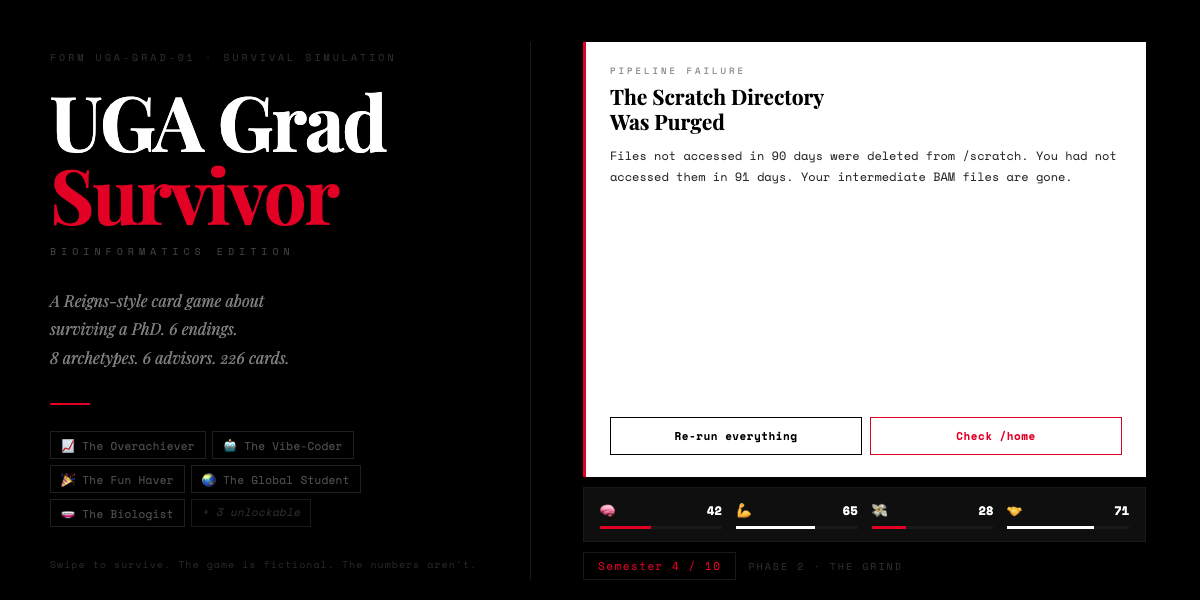
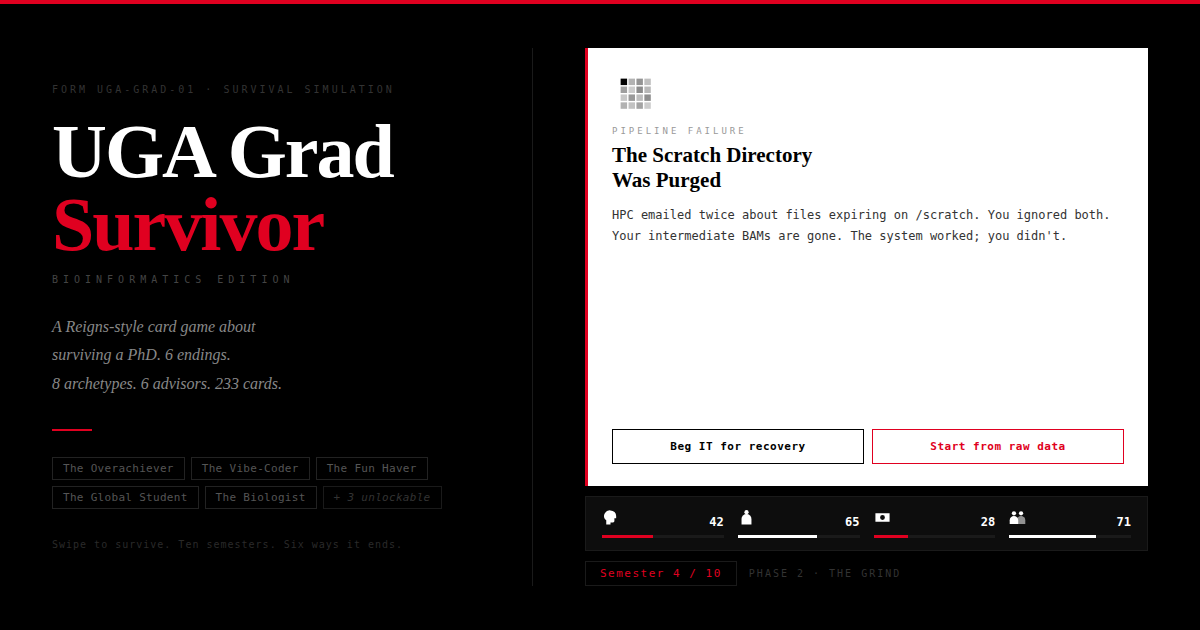
Reframe away from advocacy, and drop the stipend figure
The $34,738 stipend was the project's thesis — it led the title screen, both
share cards and the OG image. It is also the detail most certain to go stale,
which makes the framing age badly. Money stays as one of four survival stats;
it stops being the argument.

  title screen   "surviving a PhD on $34,738/year"
                 -> "surviving a bioinformatics PhD"
  og / twitter   "Can you survive a PhD on $34,738/year?"
                 -> "Ten semesters. Six ways it ends. A card game about the
                     parts of a bioinformatics PhD nobody puts in the brochure."
  stipend_letter "Your funding offer: $34,738 a year."
                 -> "Your funding offer arrives with a number on it."
                 The joke was never the figure, it was closing the cost-of-
                 living tab before you finish reading it.
  og image       "Swipe to survive. The game is fictional. The numbers aren't."
                 -> "Swipe to survive. Ten semesters. Six ways it ends."

Removed the .ending-advocacy / .ad-title / .ad-stat rules — dead CSS from an
advocacy panel no longer rendered by any JS.

OG image regenerated from corrected source: it still said 226 cards, still ran
its stat strip on emoji, and showed a sample card whose text and labels predate
the rewrite. Now 233, Isotype marks, and the card as it actually reads.

README had drifted from the code:
- 226 cards -> 233, in both places
- "defense rate ~54%, strategic play ~80%+" was wrong in both directions.
[…]

diff --git a/og-preview.html b/og-preview.html
@@ -266,21 +266,21 @@ body {
     <div class="tagline">
       A Reigns-style card game about<br>
       surviving a PhD. 6 endings.<br>
-      8 archetypes. 6 advisors. 226 cards.
+      8 archetypes. 6 advisors. 233 cards.
     </div>
 
     <div class="divider"></div>
 
     <div class="arch-grid">
-      <div class="arch-tag">📈 The Overachiever</div>
-      <div class="arch-tag">🤖 The Vibe-Coder</div>
-      <div class="arch-tag">🎉 The Fun Haver</div>
-      <div class="arch-tag">🌏 The Global Student</div>
-      <div class="arch-tag">🧫 The Biologist</div>
+      <div class="arch-tag">The Overachiever</div>
+      <div class="arch-tag">The Vibe-Coder</div>
+      <div class="arch-tag">The Fun Haver</div>
+      <div class="arch-tag">The Global Student</div>
+      <div class="arch-tag">The Biologist</div>
       <div class="arch-tag more">+ 3 unlockable</div>
     </div>
 
-    <div class="footer-line">Swipe to survive. The game is fictional. The numbers aren't.</div>
+    <div class="footer-line">Swipe to survive. Ten semesters. Six ways it ends.</div>
   </div>
 
   <div class="vdivider"></div>
@@ -288,40 +288,41 @@ body {
   <!-- RIGHT -->
   <div class="right">
     <div class="card">
+      <div class="card-art-slot"><svg viewBox="0 0 64 64" fill="currentColor" style="width:46px;height:46px;display:block;margin-bottom:10px"><rect x="12" y="12" width="9" height="9"/><rect x="23" y="12" width="9" height="9" opacity=".3"/><rect x="34" y="12" width="9" height="9" opacity=".42"/><rect x="45" y="12" width="9" height="9" opacity=".25"/><rect x="12" y="23" width="9" height="9" opacity=".38"/><rect x="23" y="23" width="9" height="9" opacity=".2"/><rect x="34" y="23" width="9" height="9" opacity=".45"/><rect x="45" y="23" width="9" height="9" opacity=".28"/><rect x="12" y="34" width="9" height="9" opacity=".22"/><rect x="23" y="34" width="9" height="9" opacity=".4"/><rect x="34" y="34" width="9" height="9" opacity=".26"/><rect x="45" y="34" width="9" height="9" opacity=".44"/><rect x="12" y="45" width="9" height="9" opacity=".3"/><rect x="23" y="45" width="9" height="9" opacity=".24"/><rect x="34" y="45" width="9" height="9" opacity=".36"/><rect x="45" y="45" width="9" height="9" opacity=".2"/></svg></div>
       <div class="card-tag">Pipeline Failure</div>
       <div class="card-title">The Scratch Directory<br>Was Purged</div>
-      <div class="card-body">Files not accessed in 90 days were deleted from /scratch. You had not accessed them in 91 days. Your intermediate BAM files are gone.</div>
+      <div class="card-body">HPC emailed twice about files expiring on /scratch. You ignored both. Your intermediate BAMs are gone. The system worked; you didn't.</div>
       <div class="card-btns">
-        <div class="cbtn cbtn-l">Re-run everything</div>
-        <div class="cbtn cbtn-r">Check /home</div>
+        <div class="cbtn cbtn-l">Beg IT for recovery</div>
+        <div class="cbtn cbtn-r">Start from raw data</div>
       </div>
     </div>
 
     <div class="stats-strip">
       <div class="stat-col">
         <div class="stat-header">
-          <span class="stat-emoji">🧠</span>
+          <span class="stat-emoji"><svg viewBox="0 0 24 24" fill="currentColor" style="width:17px;height:17px;display:block"><path d="M12 2a8 8 0 0 1 8 8v3h-2.5v4a2 2 0 0 1-2 2H12v3H6v-6l-2-2a8 8 0 0 1 8-12z"/></svg></span>
           <span class="stat-num">42</span>
         </div>
         <div class="sbar"><div class="sbar-fill" style="width:42%;background:#e00020;"></div></div>
       </div>
       <div class="stat-col">
         <div class="stat-header">
-          <span class="stat-emoji">💪</span>
+          <span class="stat-emoji"><svg viewBox="0 0 24 24" fill="currentColor" style="width:17px;height:17px;display:block"><circle cx="12" cy="4.5" r="3"/><path d="M5 22v-8a7 7 0 0 1 14 0v8z"/></svg></span>
           <span class="stat-num">65</span>
         </div>
         <div class="sbar"><div class="sbar-fill" style="width:65%;background:#fff;"></div></div>
       </div>
       <div class="stat-col">
         <div class="stat-header">
-          <span class="stat-emoji">💸</span>
+          <span class="stat-emoji"><svg viewBox="0 0 24 24" fill="currentColor" style="width:17px;height:17px;display:block"><path fill-rule="evenodd" d="M2 6h20v12H2zm10 2.6a3.4 3.4 0 1 0 0 6.8 3.4 3.4 0 0 0 0-6.8z"/></svg></span>
           <span class="stat-num">28</span>
         </div>
         <div class="sbar"><div class="sbar-fill" style="width:28%;background:#e00020;"></div></div>
       </div>
       <div class="stat-col">
         <div class="stat-header">
-          <span class="stat-emoji">🤝</span>
+          <span class="stat-emoji"><svg viewBox="0 0 24 24" fill="currentColor" style="width:17px;height:17px;display:block"><circle cx="7" cy="6" r="3"/><circle cx="17" cy="6" r="3"/><path d="M1 21v-5a6 6 0 0 1 12 0v5z"/><path d="M11 21v-5a6 6 0 0 1 12 0v5z" opacity=".55"/></svg></span>
           <span class="stat-num">71</span>
         </div>
         <div class="sbar"><div class="sbar-fill" style="width:71%;background:#fff;"></div></div>

diff --git a/js/data/cards-phase1.js b/js/data/cards-phase1.js
@@ -12,7 +12,7 @@ const PHASE1_CARDS = [
   { id:'quals_announced', minSem: 2, tag:"Milestone", emoji:"📋", title:"Qualifying Exam: Scheduled", body:"The coordinator emails the date: ten weeks. Your committee is formed. You don't know what two of them study.", cL:"Start studying now", cR:"'10 weeks is plenty'", eL:{mind:-15, body:-10, research:+10}, eR:{mind:+5, bonds:+5, research:-5}, sets:['quals_scheduled'] },
   { id:'orientation_bbq', tag:'Social', emoji:'🍖', title:'The Grad School BBQ', body:"Free pulled pork in the courtyard. A 6th-year with dark circles explains scratch directories. You understand none of it, so you nod. You will.", cL:'Ask them everything', cR:"Ignore the warnings", eL:{bonds:+15, mind:-5, research:+5}, eR:{body:+10, bonds:+5} },
   { id:'lab_philosophy', tag:'Advisor', emoji:'📄', title:'The Lab Philosophy Doc', body:"Your new advisor emails three pages titled 'Lab Culture & Expectations.' It says 'growth mindset' and 'intellectual humility.' It does not mention response times or weekends.", cL:"Read it, follow it", cR:"Skim it", eL:{bonds:+10, mind:-5, research:+5}, eR:{mind:+5, bonds:-5, research:+5} },
-  { id:'stipend_letter', tag:'Day One', emoji:'💌', title:'The Stipend Letter', body:"Your funding offer: $34,738 a year. Your parents ask what that means. You Google cost of living and close the tab before you finish.", cL:"Ask about summer", cR:'Accept and move on', eL:{wallet:+10, bonds:-5}, eR:{mind:-5, wallet:+5} },
+  { id:'stipend_letter', tag:'Day One', emoji:'💌', title:'The Stipend Letter', body:"Your funding offer arrives with a number on it. Your parents ask what that means. You Google cost of living and close the tab before you finish.", cL:"Ask about summer", cR:'Accept and move on', eL:{wallet:+10, bonds:-5}, eR:{mind:-5, wallet:+5} },
   { id:'campus_bus', tag:'Athens Life', emoji:'🚌', title:'Campus Bus at 7:45am', body:"The bus is full. You stand with a laptop bag and cold coffee while the undergrads sit — they have housing priority. Fifty minutes each way.", cL:'Buy a parking pass', cR:'Keep riding the bus', eL:{wallet:-8, body:+10, mind:+5}, eR:{body:-10, mind:-5, wallet:+5} },
   { id:'farmers_market', tag:'Athens Life', emoji:'🥬', title:'Athens Farmers Market', body:"Local honey, fresh bread, organic everything. Your budget says vegetables or coffee, not both. Athens is gorgeous and you cannot afford it.", cL:"Buy the vegetables", cR:"Buy the coffee", eL:{body:+10, mind:-5, wallet:-5}, eR:{mind:+10, body:-5, wallet:-5} },
 

diff --git a/index.html b/index.html
@@ -4,15 +4,15 @@
 <meta charset="UTF-8">
 <meta name="viewport" content="width=device-width, initial-scale=1.0, user-scalable=no">
 <title>UGA Grad Survivor: Bioinformatics Edition</title>
-<meta name="description" content="A Reigns-style card game about surviving a PhD in bioinformatics at UGA. 6 endings. 8 archetypes. 6 advisors. 200+ cards.">
+<meta name="description" content="A Reigns-style card game about surviving a bioinformatics PhD. 233 cards, 8 archetypes, 6 advisors, 6 ways it ends.">
 <meta property="og:title" content="UGA Grad Survivor: Bioinformatics Edition">
-<meta property="og:description" content="Can you survive a PhD on $34,738/year? A card game about the real grad school experience.">
+<meta property="og:description" content="Ten semesters. Six ways it ends. A card game about the parts of a bioinformatics PhD nobody puts in the brochure.">
 <meta property="og:type" content="website">
 <meta property="og:url" content="https://chenhsieh.github.io/UGA-grad-survivor/">
 <meta property="og:image" content="https://chenhsieh.github.io/UGA-grad-survivor/og-image.png">
 <meta name="twitter:card" content="summary_large_image">
 <meta name="twitter:title" content="UGA Grad Survivor">
-<meta name="twitter:description" content="Can you survive a PhD on $34,738/year? A card game about the real grad school experience.">
+<meta name="twitter:description" content="Ten semesters. Six ways it ends. A card game about the parts of a bioinformatics PhD nobody puts in the brochure.">
 <meta name="twitter:image" content="https://chenhsieh.github.io/UGA-grad-survivor/og-image.png">
 <meta name="theme-color" content="#0e0c0a">
 <!-- The Isotype 'defended' mark from js/art.js, not an emoji. -->

diff --git a/css/style.css b/css/style.css
@@ -156,10 +156,6 @@ body {
 .ending-stats { background: var(--surface); border: 1px solid var(--border); border-radius: 8px; padding: 14px; margin-bottom: 20px; text-align: left; font-family: var(--font-sans); font-size: 14px; }
 .ending-stats .stat-line { margin-bottom: 6px; display: flex; justify-content: space-between; }
 .ending-stats .stat-line:last-child { margin-bottom: 0; }
-.ending-advocacy { background: var(--surface); border: 1px solid var(--border); border-radius: 8px; padding: 14px; margin-bottom: 20px; font-family: var(--font-sans); font-size: 14px; line-height: 1.6; }
-.ending-advocacy .ad-title { font-weight: 700; margin-bottom: 8px; color: var(--gold); }
-.ending-advocacy .ad-stat { margin-bottom: 6px; }
-.ending-advocacy .ad-stat strong { color: var(--gold); }
 .share-section { margin: 16px 0; }
 .share-label { font-family: var(--font-sans); font-size: 12px; color: var(--dim); letter-spacing: 1px; text-transform: uppercase; margin-bottom: 8px; }
 .share-textarea {

diff --git a/js/ui.js b/js/ui.js
@@ -5,7 +5,7 @@ function renderTitle() {
     <div class="title-screen">
       <h1>UGA GRAD <em>Survivor</em></h1>
       <div class="sub">BIOINFORMATICS EDITION</div>
-      <div class="tagline">A card game about surviving a PhD on \$34,738/year.<br>6 endings. 8 archetypes. 6 advisors. Swipe to find out.</div>
+      <div class="tagline">A card game about surviving a bioinformatics PhD.<br>6 endings. 8 archetypes. 6 advisors. Swipe to find out.</div>
       <button class="begin-btn" onclick="gameState.phase='archetype'; menuIndex=0; render()">Begin</button>
       <div class="press-hint">PRESS SPACE TO START</div>
       <div class="credits">by Chen Hsieh, UGA Bioinformatics PhD Candidate</div>

diff --git a/README.md b/README.md
@@ -11,21 +11,21 @@ Swipe left. Swipe right. Try not to lose your mind, your health, your money, or 
 
 ## How to Play
 
-You're a bioinformatics PhD student. The game is set at the University of Georgia, but the situations — advisor ghosting, pipeline disasters, stipend anxiety, quals — translate to any computational biology program. Every card presents a situation — swipe left or right to make a choice. Each choice affects your stats:
+You're a bioinformatics PhD student. The game is set at the University of Georgia, but the situations — advisor ghosting, pipeline disasters, quals, committee season — translate to any computational biology program. Every card presents a situation: swipe left or right. Each choice moves your stats:
 
-- 🧠 **Mind** — sanity, focus, will to continue
-- 💪 **Body** — physical health, sleep, energy
-- 💰 **Wallet** — money, funding, financial stability
-- 🤝 **Bonds** — all relationships (advisor, friends, cohort, family)
-- 📊 **Research** — academic output; gated at milestone checkpoints
+- **Mind** — sanity, focus, will to continue
+- **Body** — physical health, sleep, energy
+- **Wallet** — money, funding, financial stability
+- **Bonds** — all relationships (advisor, friends, cohort, family)
+- **Research** — academic output; gated at milestone checkpoints
 
 If any of the first four stats hits zero, your PhD is over. Keep Research high enough to pass milestones. Survive 10 semesters and defend your dissertation to win.
 
 ## Choose Who You Are
 
-**📈 Overachiever** · **💻 Vibe Coder** · **🎉 Fun Haver** · **🌍 Global Student** · **🧬 Biologist** — available from the start.
+**Overachiever** · **Vibe-Coder** · **Fun Haver** · **Global Student** · **Biologist** — available from the start.
 
-**🕵 Double Agent** · **🏋 Gym Bro** · **🧩 Neurodivergent** — unlocked by reaching specific endings.
+**Double Agent** · **Gym Bro** · **Neurodivergent** — unlocked by reaching specific endings.
 
 After semester 1 rotations you also choose your **advisor type** (Micromanager, Ghost, Mentor, New PI, and two more unlocked by play), each with persistent perks that affect the rest of your run.
 
@@ -45,21 +45,21 @@ Milestone cards appear at phase boundaries — qualifying exam, paper submission
 
 ## Six Ways It Ends
 
-🎓 **Defended** — You made it.
+**Defended** — You made it.
 
-📜 **Mastered Out** — You leave with a master's. Nobody calls it failing. The program does, technically.
+**Mastered Out** — You leave with a master's. Nobody calls it failing. The program does, technically.
 
-🧠 **Burnt Out** — The pressure accumulated quietly, then all at once.
+**Burnt Out** — The pressure accumulated quietly, then all at once.
 
-🏥 **Hospitalized** — Your body filed a formal complaint.
+**Hospitalized** — Your body filed a formal complaint.
 
-💸 **Broke** — Your card declined at the vending machine. Your stipend doesn't arrive until the 15th. It is the 3rd.
+**Broke** — Your card declined at the vending machine. Your stipend doesn't arrive until the 15th. It is the 3rd.
 
-👻 **Disappeared** — You stopped showing up. Nobody followed up.
+**Disappeared** — You stopped showing up. Nobody followed up.
 
 Each ending has its own screen. Dying unlocks new archetypes and advisors — you're meant to play more than once.
 
-## 226 Cards
+## 233 Cards
 
 The cards cover the real texture of PhD life: advisor ghosting, pipeline disasters, rent increases, game day parking, the LinkedIn comparison spiral, Reviewer 2, stress baking, and whether to take the side gig.
 
@@ -67,18 +67,23 @@ Rooted in UGA bioinformatics — Athens venues, the HPC cluster, rivalry game we
 
 ## Balance
 
-Calibrated via 96,000-run Monte Carlo simulation against real PhD attrition data ([CGS](https://cgsnet.org), [Nature 2022 survey](https://www.nature.com/articles/d41586-022-03394-0)):
+Tuned against Monte Carlo simulation across all 48 archetype x advisor pairings (7,200 runs per strategy):
 
-- Overall defense rate ~54%. Random play wins far less; strategic play can reach ~80%+.
-- Financial stress is background radiation — it drains Mind and Body over time rather than killing directly, matching real attrition patterns.
+| Play style | Defends | Avg. semester reached |
+|---|---|---|
+| Random choices | 17% | 7.6 |
+| Competent play | 95% | 9.9 |
+
+That gap is the game: the deck is survivable, but only if you read it. Burning out is the most common way to lose (41% of random runs), and financial stress works as background radiation — it drains Mind and Body over time rather than killing directly.
 
 ## Tech
 
 Zero dependencies. No build step.
 
-- Vanilla JS + CSS split across `js/engine.js`, `js/ui.js`, `js/controls.js`, `js/data/`
-- Touch swipe + mouse drag + keyboard controls
-- 226 cards across 8 pools (3 phases + universal + callbacks + archetype/PI exclusives + milestones)
+- Vanilla JS + CSS split across `js/engine.js`, `js/ui.js`, `js/controls.js`, `js/art.js`, `js/data/`
+- No emoji anywhere: every mark is an inline SVG pictogram drawn in the style of Neurath and Arntz's Isotype, keyed to each card's tag and seeded from its id
+- Touch swipe + mouse drag + keyboard controls; WCAG AA contrast in all six themes
+- 233 cards across 8 pools (3 phases + universal + callbacks + archetype/PI exclusives + milestones)
 - localStorage for unlock persistence
 - Mobile-first responsive design
 
@@ -101,13 +106,15 @@ Drop `index.html` on any static host (Netlify, Vercel, Cloudflare Pages, S3).
 If you're a grad student and have a scenario that belongs in this game, open an issue or a PR. Card format:
 
 ```js
-{ id:'unique_id', tag:'Category', emoji:'🔬', title:'Card Title',
+{ id:'unique_id', tag:'Category', title:'Card Title',
   body:'The scenario. Be specific. Be funny. Be real.',
   cL:'Left choice', cR:'Right choice',
   eL:{ mind:-10, bonds:+5 }, eR:{ wallet:-8, body:+10 } }
 ```
 
-Stats: `mind`, `body`, `wallet`, `bonds`, `research`. Max swing ±20 per stat. Every card should have at least one choice with a net positive.
+Stats: `mind`, `body`, `wallet`, `bonds`, `research`. Max swing ±20 per stat. Every card should have at least one choice with a net positive. `tag` also selects the card's art.
+
+Body text is capped at **30 words** and choice labels at **22 characters** — players read every word of every card, so length is the main pacing lever. Run `node tools/lint-cards.js` before opening a PR; it enforces the budget and checks that your card's art and semester gating actually resolve.
 
 ## Credits
 

diff --git a/CLAUDE.md b/CLAUDE.md
@@ -8,6 +8,18 @@ A Reigns-style card game about surviving a Bioinformatics PhD at UGA. Single-pla
 python3 -m http.server 8765
 ```
 
+## Deploying
+
+Push to the branch and let GitHub Pages build it. Do not publish preview
+artifacts — the Pages URL is the preview.
+
+## Framing
+
+This is a comedy about the texture of a bioinformatics PhD, not an advocacy
+piece about pay. Money is one of four survival stats, not the thesis. Avoid
+pinning copy to a specific stipend figure or any other number that dates —
+the game outlives the number.
+
 ## File Structure
 
 ```
